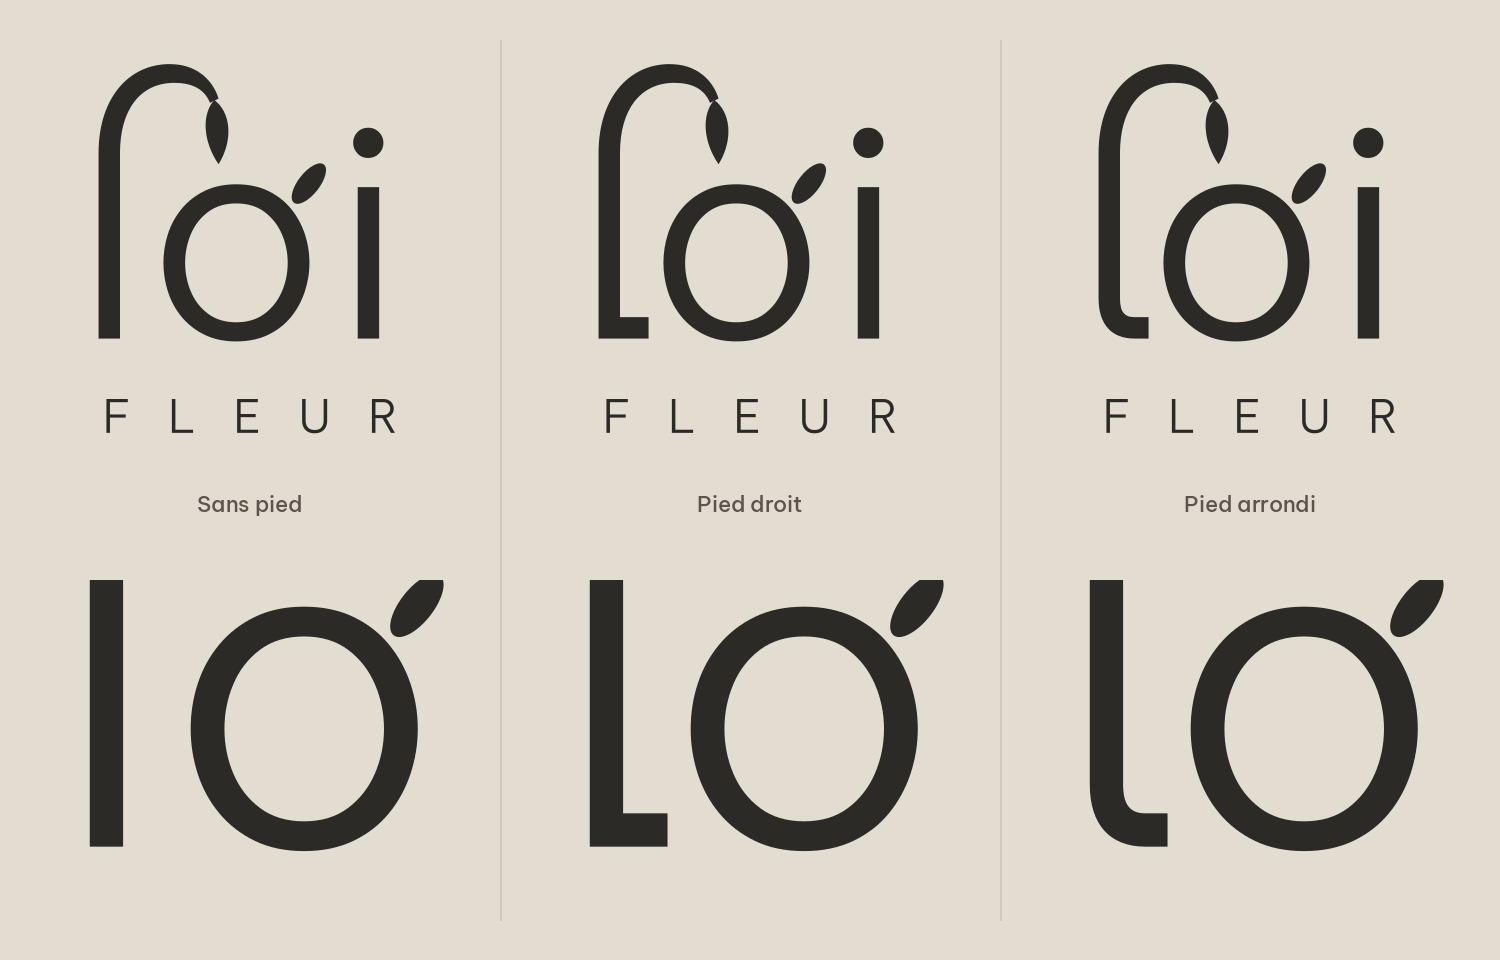
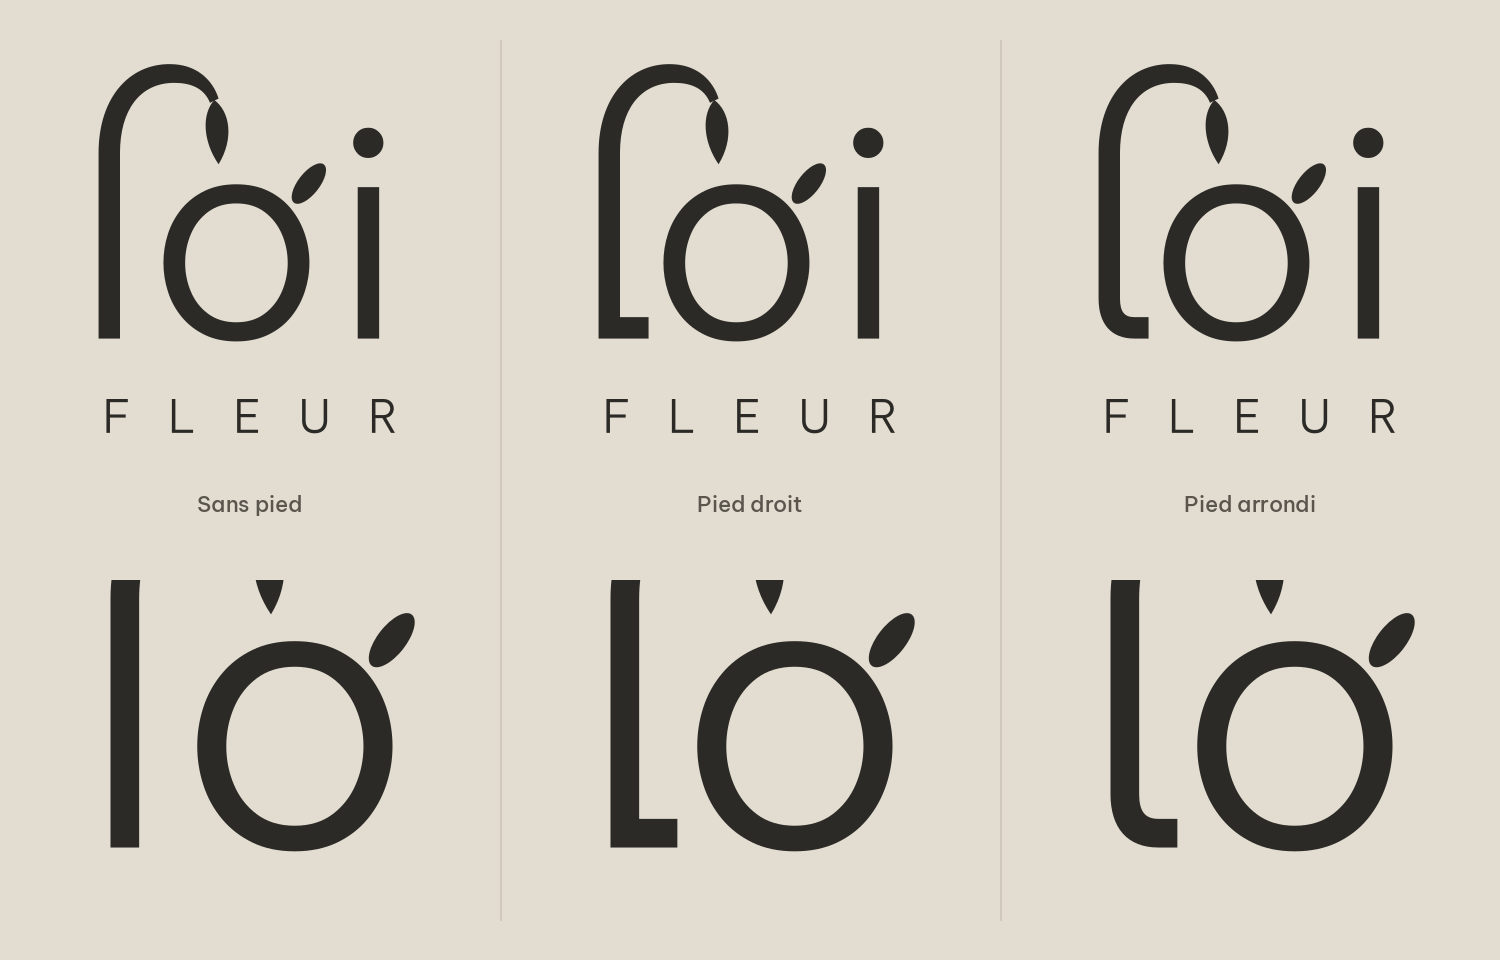
Tige (detached leaf): fix zoom framing
Claude-Session: https://claude.ai/code/session_01MiraCijJAYJ5HR4mQiBw29

diff --git a/brand/sources/tige_foot_decollee.py b/brand/sources/tige_foot_decollee.py
@@ -14,7 +14,7 @@ TOP='L32,70 C32,40 46,21 70,21 C82,21 91,25 95,35 L101,32 C97,19 86,9 70,8 C40,6
 l_flat=t3.P('M17,200 L52,200 L52,185 L32,185 '+TOP)
 l_round=t3.P('M17,172 C17,190 26,200 42,200 L52,200 L52,185 L42,185 C35,185 32,181 32,172 '+TOP)
 V=[('Sans pied',t3.P(stem_full)+rest),('Pied droit',l_flat+rest),('Pied arrondi',l_round+rest)]
-vb=t3.vb; zvb='0 80 178 135'
+vb=t3.vb; zvb='0 60 180 157'
 for name,b in zip(('sans-pied','pied-droit','pied-arrondi'),[v[1] for v in V]):
     open(f'/home/user/floristapp/brand/logos/tige-decollee-{name}-encre.svg','w').write(f'<svg xmlns="http://www.w3.org/2000/svg" viewBox="{vb}">{b.replace("currentColor","#1F1E1A")}</svg>\n')
 F=ImageFont.truetype(FD+'bvp-med.ttf',22)
